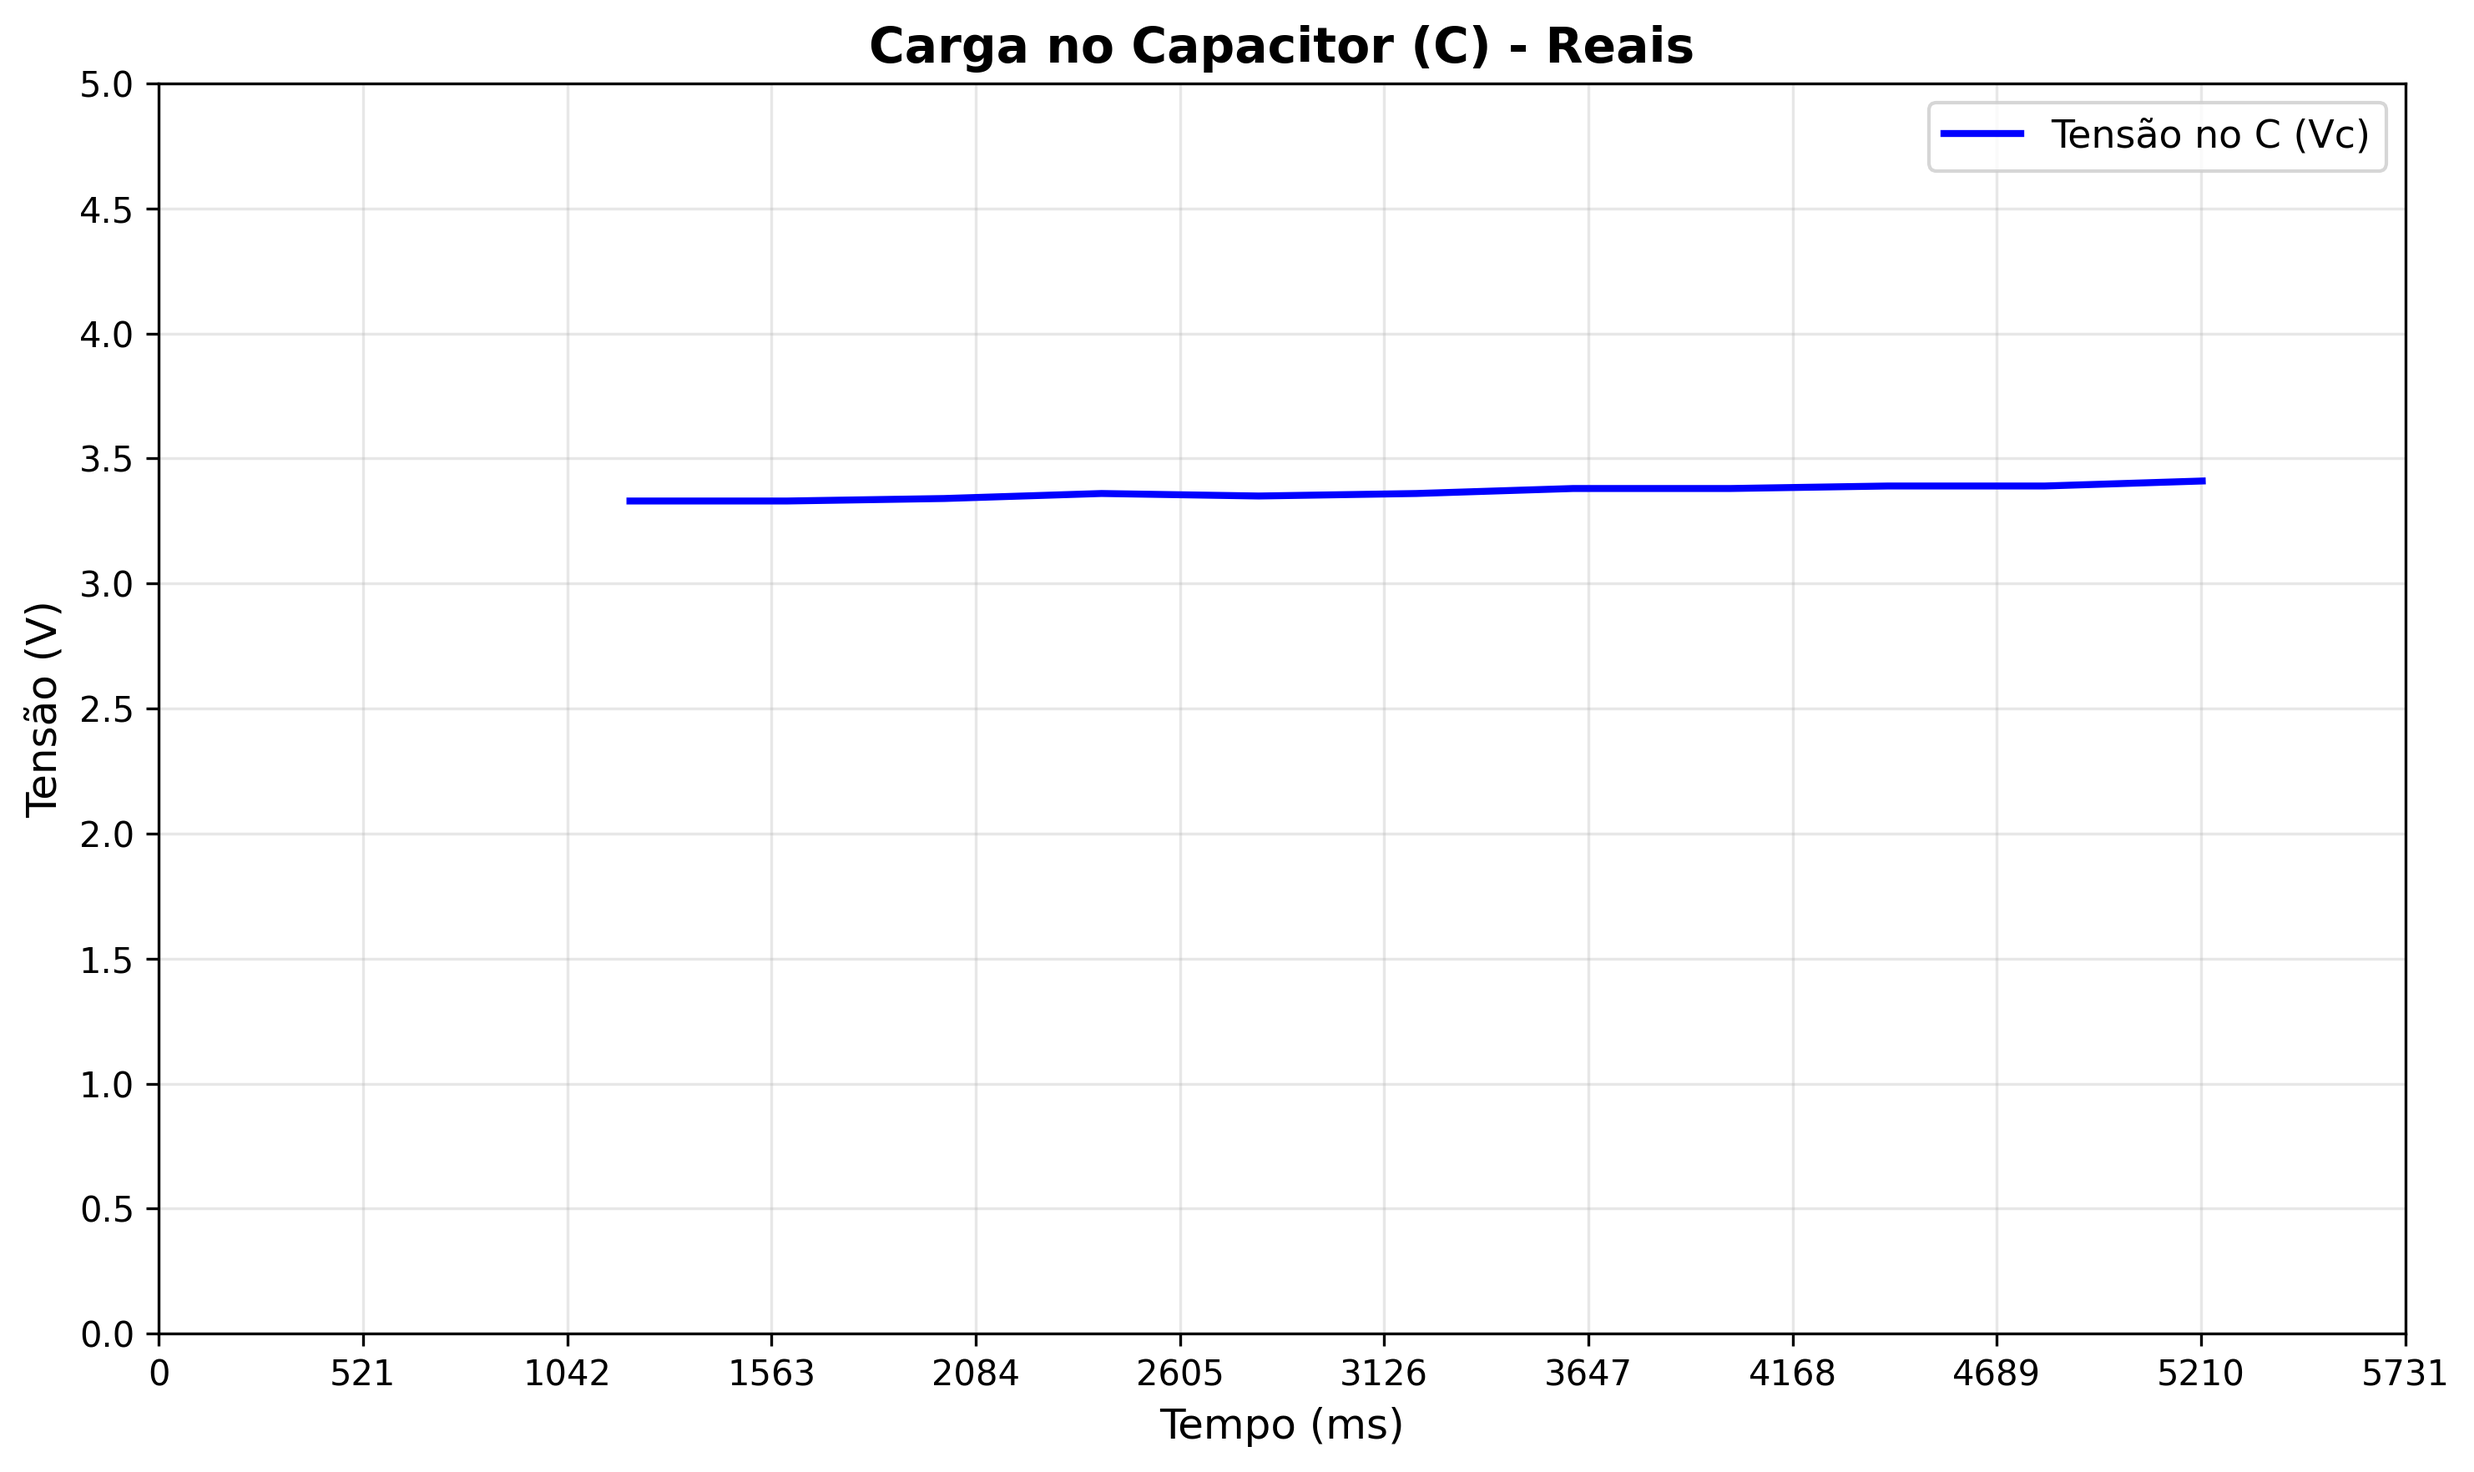
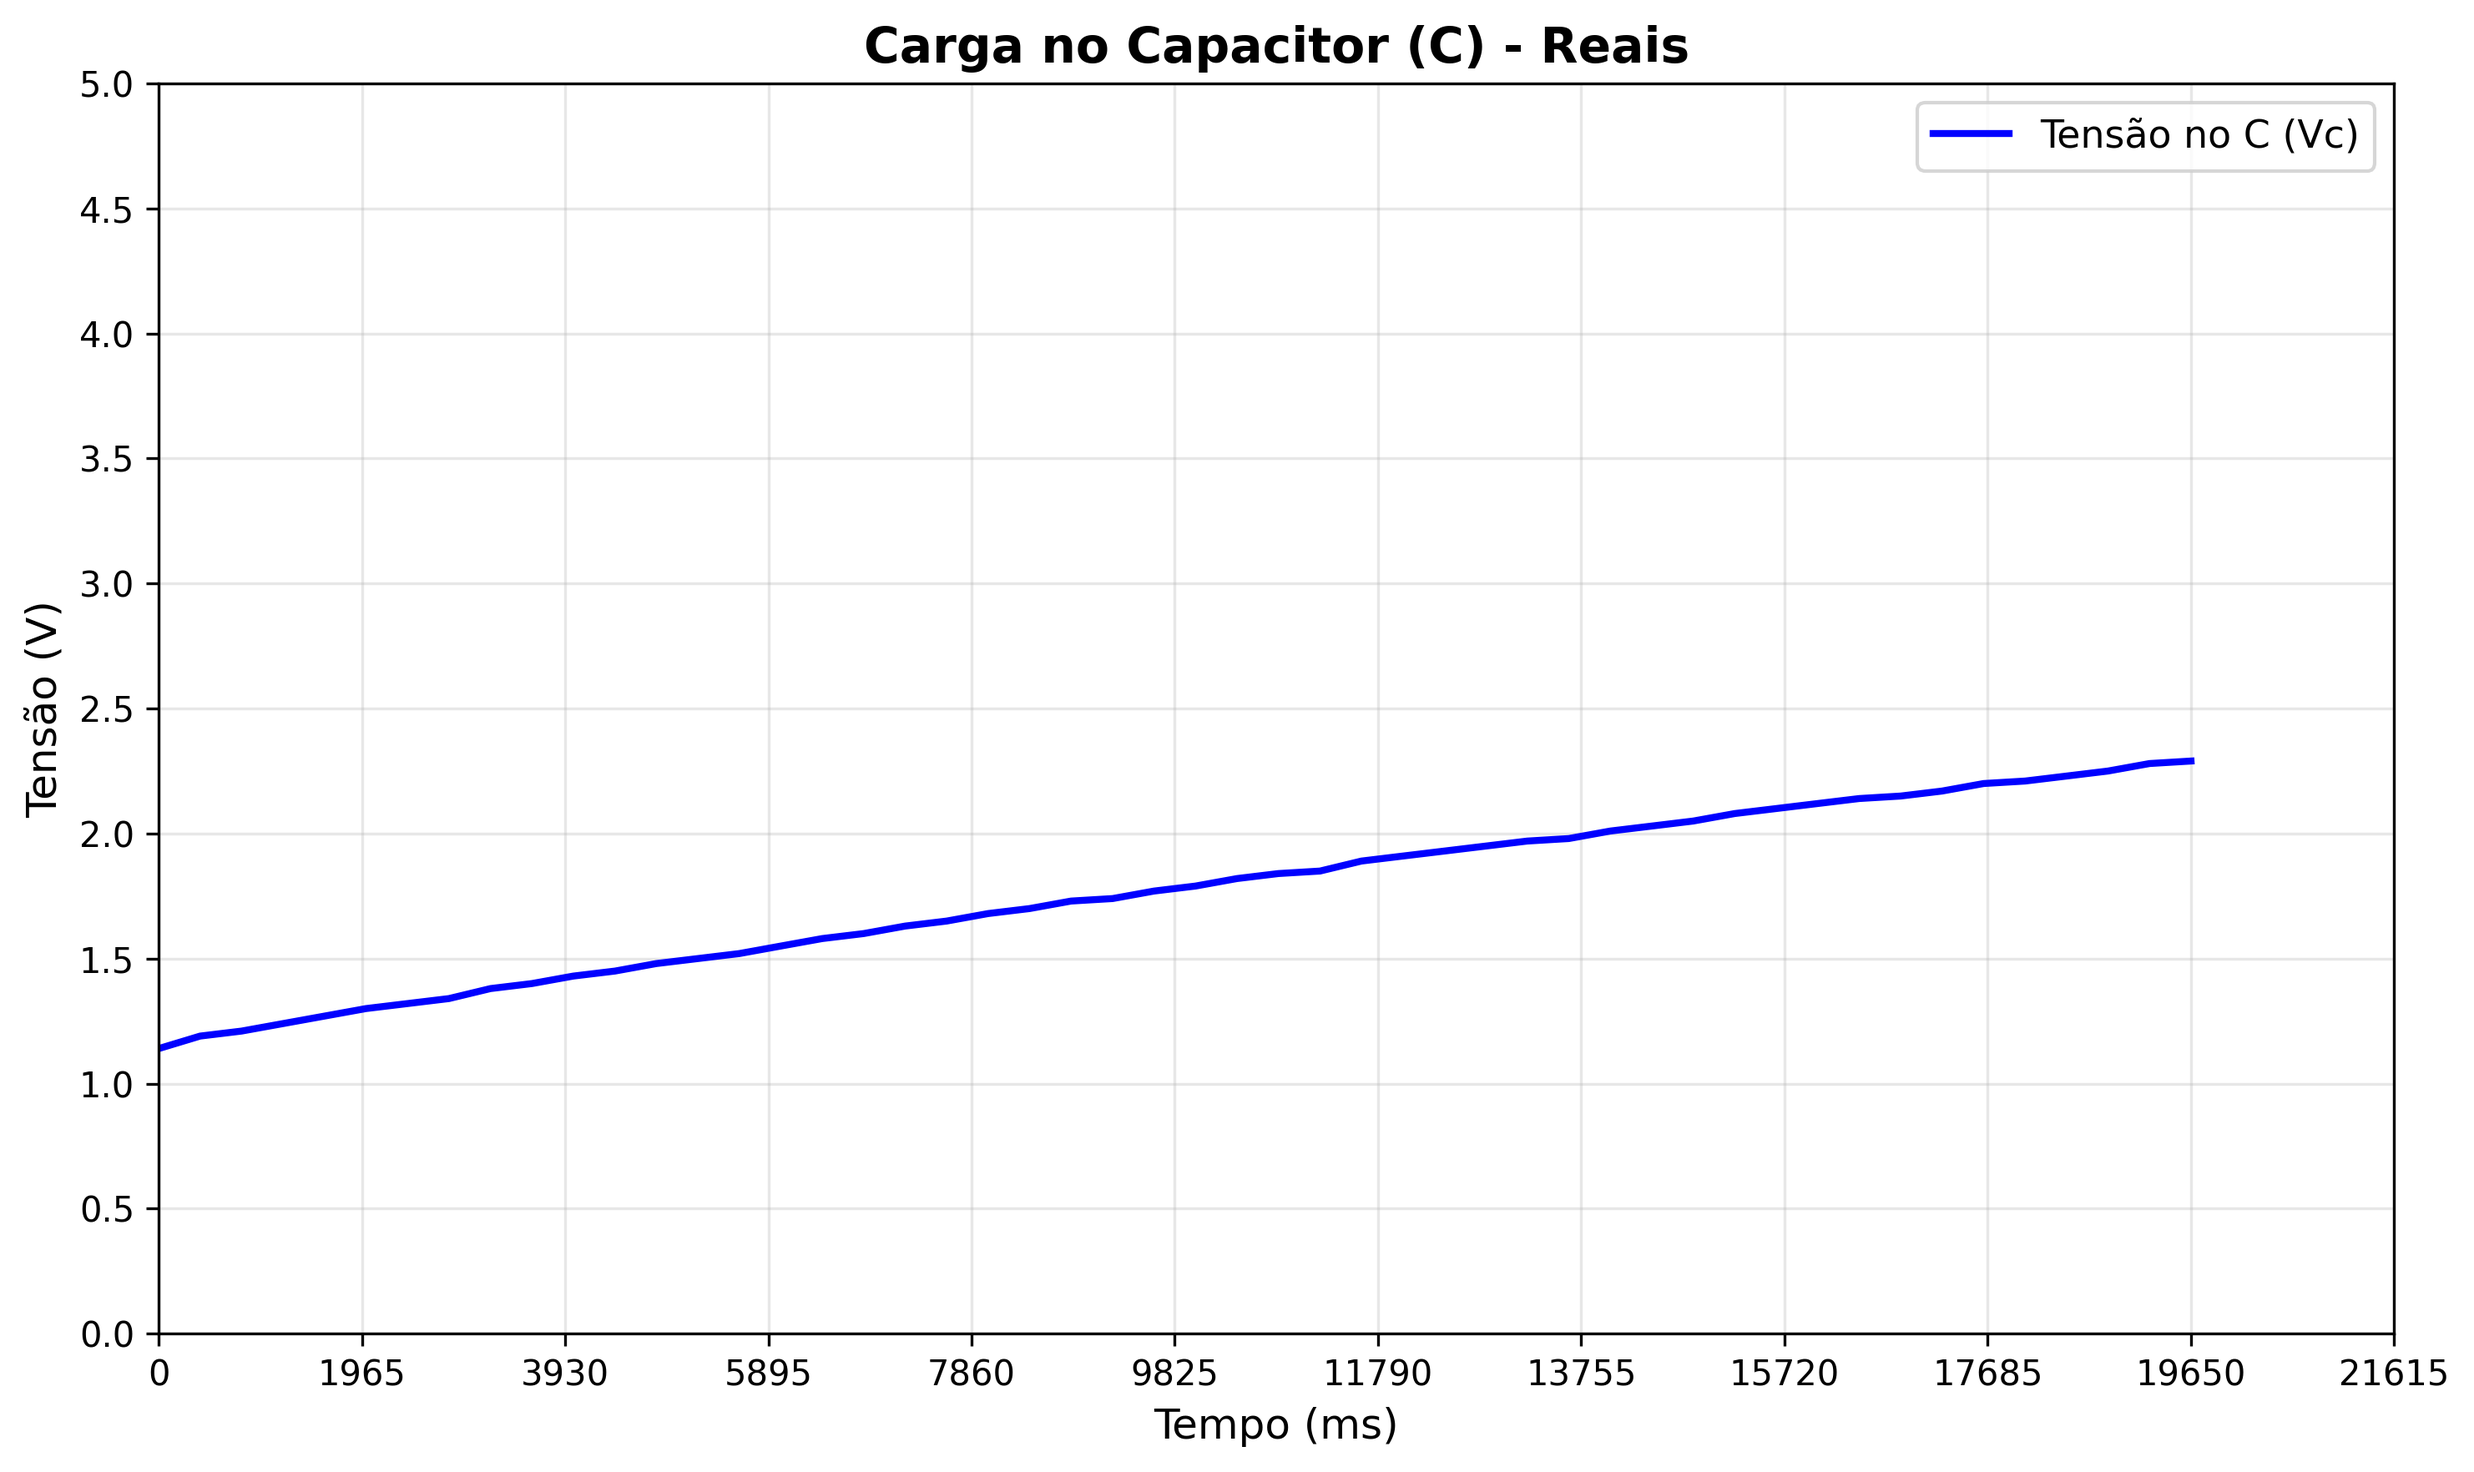
feat: Atualiza medição real com 50 valores

diff --git a/Ponderada02/README.md b/Ponderada02/README.md
@@ -83,10 +83,10 @@ Os dados foram coletados durante a simulação e organizados no arquivo `valores
 ### 🔬 Parte Física (Hardware Real)
 Os dados foram coletados do circuito físico e organizados no arquivo `valores_reais.csv`:
 
-- **Tempo:** 1.202 a 5.213 segundos
-- **Tensão do Resistor:** 1.67V a 1.59V (decrescente)
-- **Tensão do Capacitor:** 3.33V a 3.41V (crescente)
-- **Total de pontos:** 11 medições
+- **Tempo:** 0 a 19.652 segundos
+- **Tensão do Resistor:** 3.86V a 2.71V (decrescente)
+- **Tensão do Capacitor:** 1.14V a 2.29V (crescente)
+- **Total de pontos:** 50 medições
 
 ### Análise dos Resultados
 - ✅ **Comportamento exponencial** observado tanto na simulação quanto no hardware real
@@ -152,16 +152,18 @@ Ponderada02/
 3. **Constante de Tempo:** Calculada e verificada nos dados simulados e físicos
 4. **Simulação vs Teoria:** Resultados próximos aos valores teóricos esperados
 5. **Hardware vs Simulação:** Comportamento similar, com pequenas variações devido a tolerâncias dos componentes reais
-6. **Precisão dos Dados:** Simulação oferece dados mais densos (49 pontos), hardware real com 11 pontos representativos
+6. **Precisão dos Dados:** Ambos os conjuntos oferecem dados densos (49 pontos na simulação, 50 pontos no hardware real)
 
 ### 📊 Comparação dos Resultados
 
 | Aspecto | Simulação | Hardware Real |
 |---------|-----------|---------------|
-| **Pontos de dados** | 49 | 11 |
-| **Tempo total** | 19.3 ms | 4.0 s |
-| **Vresistor inicial** | 5.00 V | 1.67 V |
-| **Vcapacitor inicial** | 0.00 V | 3.33 V |
+| **Pontos de dados** | 49 | 50 |
+| **Tempo total** | 19.3 ms | 19.7 s |
+| **Vresistor inicial** | 5.00 V | 3.86 V |
+| **Vcapacitor inicial** | 0.00 V | 1.14 V |
+| **Vresistor final** | 0.72 V | 2.71 V |
+| **Vcapacitor final** | 4.28 V | 2.29 V |
 | **Comportamento** | Exponencial | Exponencial |
 | **Lei de Kirchhoff** | ✅ Verificada | ✅ Verificada |
 
